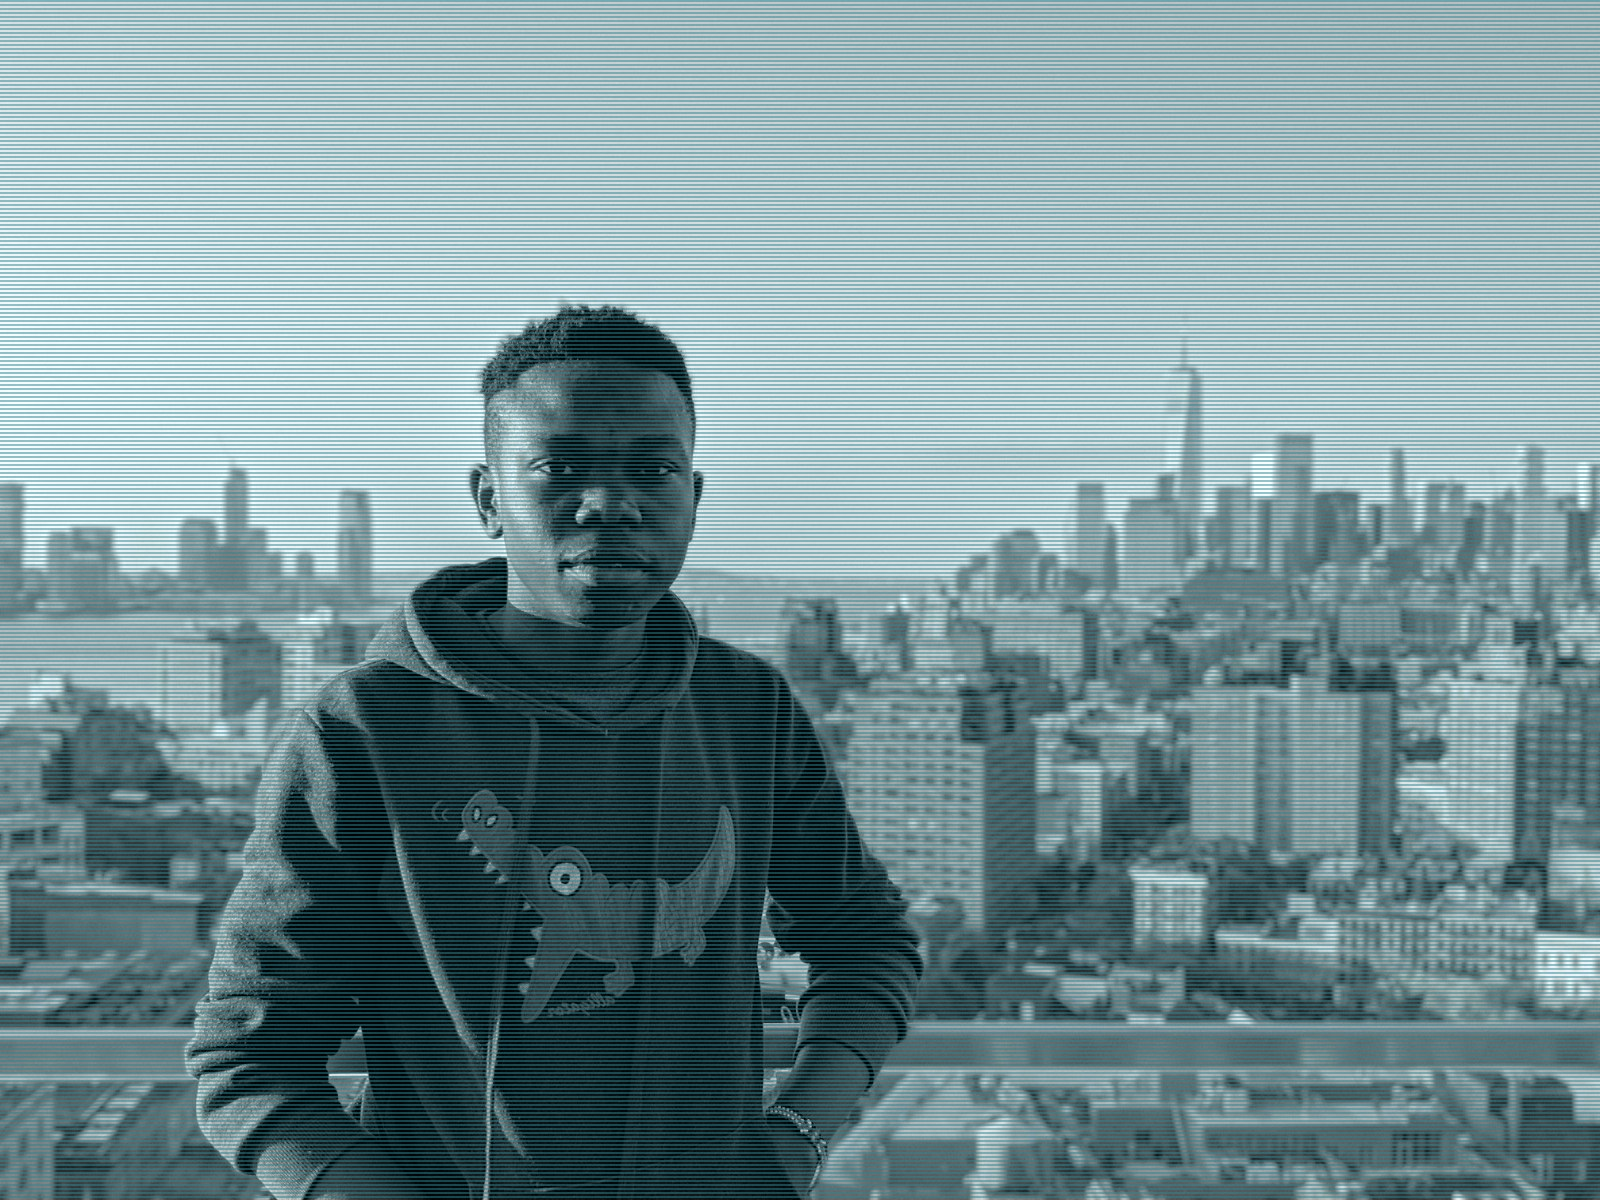
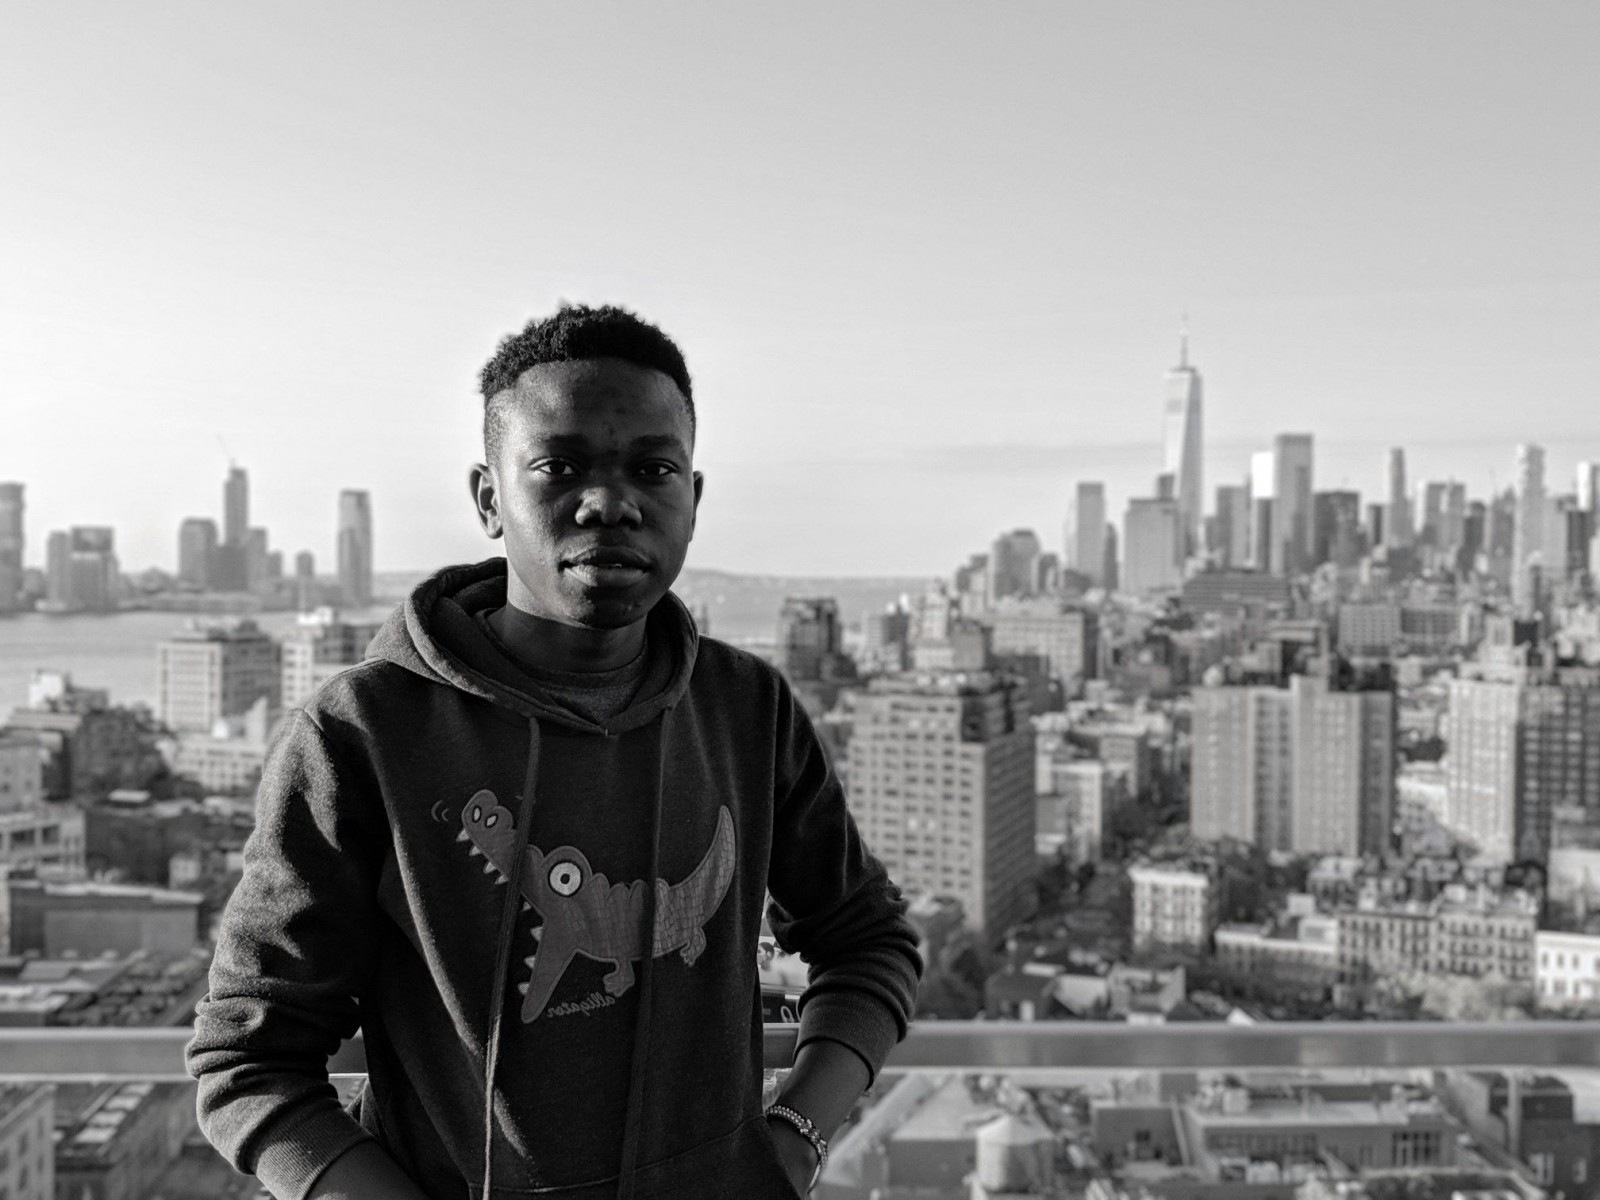
replaced backgroud image and added animated text

diff --git a/_site/css/main.css b/_site/css/main.css
@@ -10,6 +10,31 @@ body {
     min-height: 50vh;
     overflow-x:hidden
 }
+.typewriter h3 {
+   /* Web-safe typewriter-like font */
+  overflow: hidden; /* Ensures the content is not revealed until the animation */
+  border-right: .15em solid transparent; /* The typwriter cursor */
+  white-space: nowrap; /* Keeps the content on a single line */
+  margin: 0 auto; /* Gives that scrolling effect as the typing happens */
+  letter-spacing: .1em; /* Adjust as needed */
+  animation:
+    typing 3.5s steps(30, end),
+    blinking-cursor .5s step-end 8;
+  color: black;
+
+}
+
+/* The typing effect */
+@keyframes typing {
+  from { width: 0 }
+  to { width: 100% }
+}
+
+/* The typewriter cursor effect */
+@keyframes blinking-cursor {
+  from, to { border-color: transparent }
+  50% { border-color: orange; }
+}
 
 .projectTitle {
   color:#008E8E
@@ -119,7 +144,7 @@ header {
 
 #headline_name {
     font-family: 'Quicksand', sans-serif;
-    color: #202021;
+    color: #ffe451;
     font-size: 3em;
     font-weight: bold;
 }

diff --git a/css/main.css b/css/main.css
@@ -10,6 +10,31 @@ body {
     min-height: 50vh;
     overflow-x:hidden
 }
+.typewriter h3 {
+   /* Web-safe typewriter-like font */
+  overflow: hidden; /* Ensures the content is not revealed until the animation */
+  border-right: .15em solid transparent; /* The typwriter cursor */
+  white-space: nowrap; /* Keeps the content on a single line */
+  margin: 0 auto; /* Gives that scrolling effect as the typing happens */
+  letter-spacing: .1em; /* Adjust as needed */
+  animation:
+    typing 3.5s steps(30, end),
+    blinking-cursor .5s step-end 8;
+  color: black;
+
+}
+
+/* The typing effect */
+@keyframes typing {
+  from { width: 0 }
+  to { width: 100% }
+}
+
+/* The typewriter cursor effect */
+@keyframes blinking-cursor {
+  from, to { border-color: transparent }
+  50% { border-color: orange; }
+}
 
 .projectTitle {
   color:#008E8E
@@ -119,7 +144,7 @@ header {
 
 #headline_name {
     font-family: 'Quicksand', sans-serif;
-    color: #202021;
+    color: #ffe451;
     font-size: 3em;
     font-weight: bold;
 }

diff --git a/_layouts/index.html b/_layouts/index.html
@@ -25,7 +25,9 @@
 			<div class="tagline">
 				<div id="headline_name">Samson Goddy</div>
 				<div id="line">__________________________</div>
-				<div id="headline">Doing something Iconic</div>
+				<div class="typewriter">
+  					<h3>Doing something Iconic</h3>
+				</div>
 					<ul class="navLinks">
 						<li><a class="nav" href="/portfolio">Portfolio</a></li>
 						<li><a class="nav" href="/about">About</a></li>

diff --git a/_site/index.html b/_site/index.html
@@ -25,7 +25,9 @@
 			<div class="tagline">
 				<div id="headline_name">Samson Goddy</div>
 				<div id="line">__________________________</div>
-				<div id="headline">Doing something Iconic</div>
+				<div class="typewriter">
+  					<h3>Doing something Iconic</h3>
+				</div>
 					<ul class="navLinks">
 						<li><a class="nav" href="/portfolio">Portfolio</a></li>
 						<li><a class="nav" href="/about">About</a></li>
